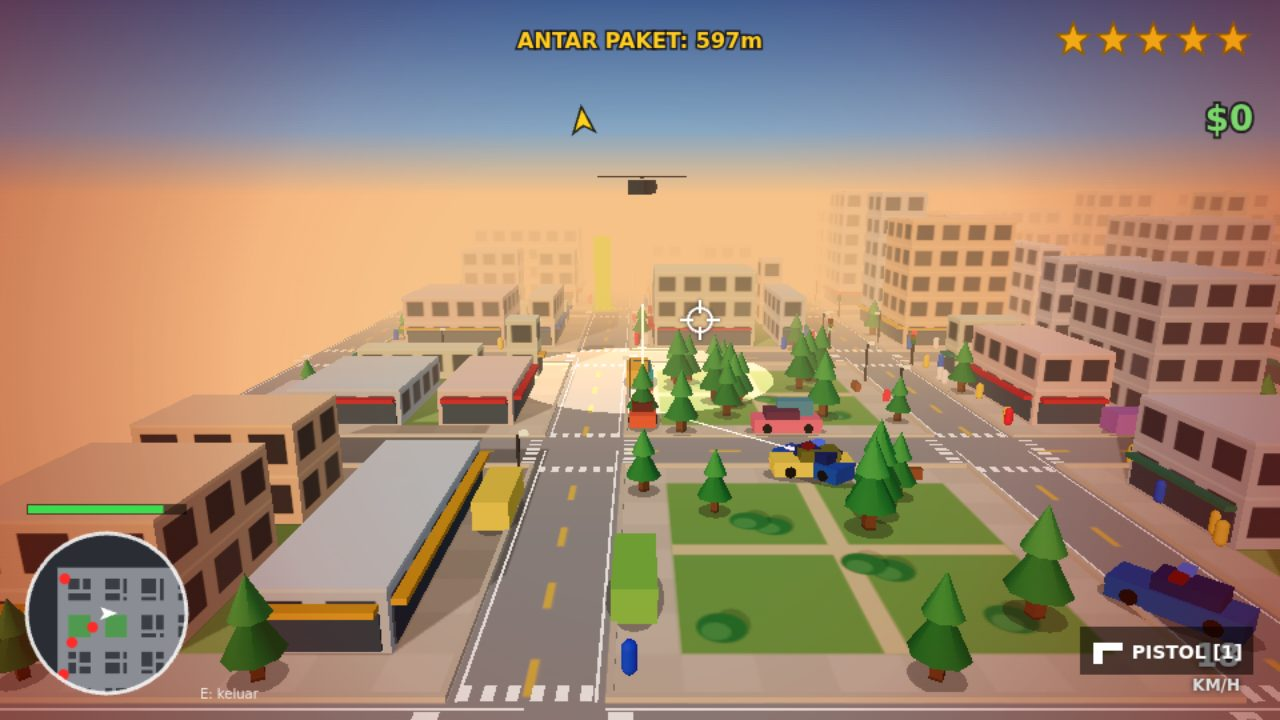
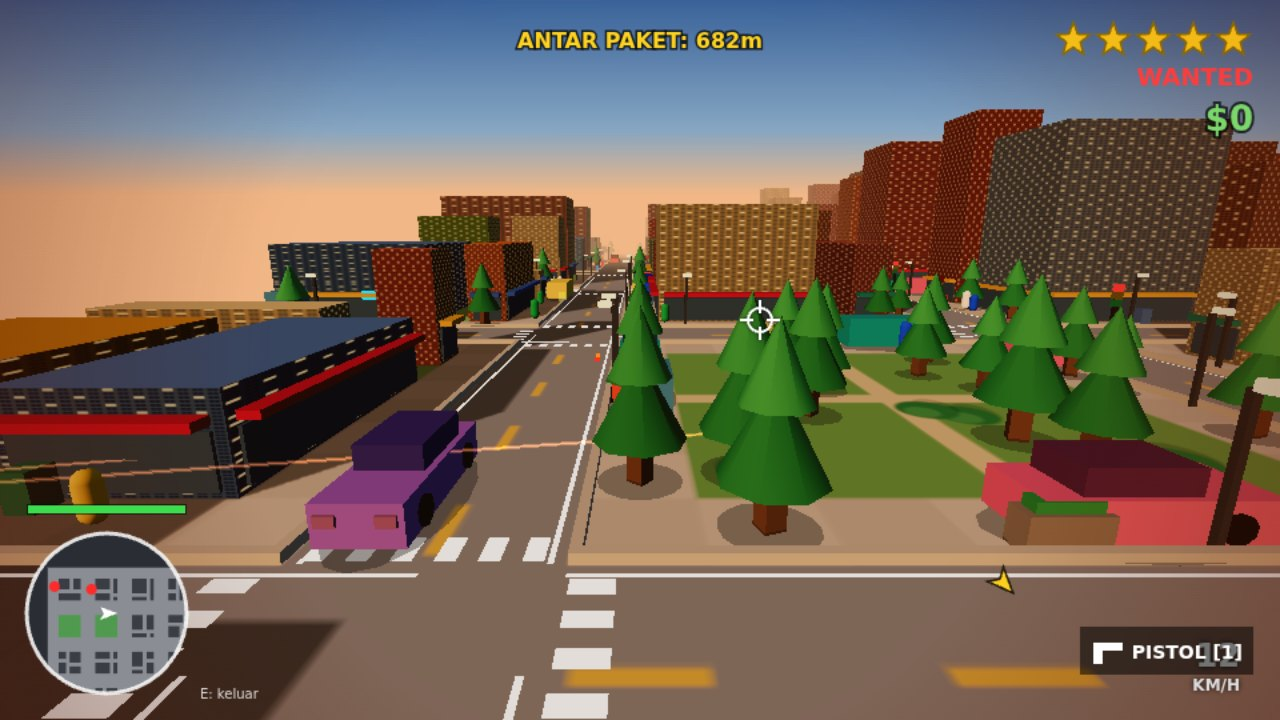
feat(V2): palet vivid, fasad tekstur 3 bucket, prop jalan padat, kamera dekat, grade 1.30; screenshot terpilih (sheet edge 35.5 / kontras 59.4)

diff --git a/game/src/render3d.js b/game/src/render3d.js
@@ -35,44 +35,45 @@ function makeSkyTexture() {
   return texture;
 }
 
-function makeWindowGlowTexture() {
-  const canvas = document.createElement('canvas');
-  canvas.width = canvas.height = 256;
-  const ctx = canvas.getContext('2d');
-  ctx.fillStyle = '#000';
-  ctx.fillRect(0, 0, 256, 256);
-  ctx.fillStyle = '#ffcf7a';
-  for (let row = 0; row < 4; row++) {
-    for (let col = 0; col < 8; col++) {
-      if ((row * 7 + col * 13) % 11 < 2) ctx.fillRect(col * 32 + 5, row * 64 + 12, 22, 38);
-    }
-  }
-  const texture = new THREE.CanvasTexture(canvas);
-  texture.colorSpace = THREE.SRGBColorSpace;
-  texture.wrapS = texture.wrapT = THREE.RepeatWrapping;
-  texture.anisotropy = 4;
-  return texture;
-}
+const FACADE_SIZE = 512, FACADE_COLS = 8, FACADE_ROWS = 10;
+const FACADE_REPEATS = [[2, 3], [3, 6], [4, 9]];
 
-function makeFacadeTexture() {
-  const canvas = document.createElement('canvas');
-  canvas.width = canvas.height = 256;
-  const ctx = canvas.getContext('2d');
-  ctx.fillStyle = '#e8e8ee';
-  ctx.fillRect(0, 0, 256, 256);
-  for (let row = 0; row < 4; row++) {
-    for (let col = 0; col < 8; col++) {
-      ctx.fillStyle = (row * 3 + col * 5) % 7 === 0 ? '#4a5a70' : '#2c3a4e';
-      ctx.fillRect(col * 32 + 5, row * 64 + 12, 22, 38);
+function makeFacadeTextures() {
+  const cw = FACADE_SIZE / FACADE_COLS, rh = FACADE_SIZE / FACADE_ROWS;
+  const mk = () => {
+    const canvas = document.createElement('canvas');
+    canvas.width = canvas.height = FACADE_SIZE;
+    return [canvas, canvas.getContext('2d')];
+  };
+  const [fc, f] = mk();
+  const [gc, g] = mk();
+  f.fillStyle = '#c9c2b2';
+  f.fillRect(0, 0, FACADE_SIZE, FACADE_SIZE);
+  g.fillStyle = '#000';
+  g.fillRect(0, 0, FACADE_SIZE, FACADE_SIZE);
+  for (let row = 0; row < FACADE_ROWS; row++) {
+    for (let col = 0; col < FACADE_COLS; col++) {
+      const x = col * cw + 10, y = row * rh + 9, w = cw - 20, h = rh - 18;
+      const lit = (row * 7 + col * 13 + row * col * 3) % 4 === 0;
+      f.fillStyle = lit ? '#ffe0a0' : '#3f5670';
+      f.fillRect(x, y, w, h);
+      if (lit) { g.fillStyle = '#ffe0a0'; g.fillRect(x, y, w, h); }
+      f.fillStyle = '#e8eef5';
+      f.fillRect(x + w / 2 - 1, y, 2, h);
+      f.fillRect(x, y + h / 2 - 1, w, 2);
+      f.fillRect(x - 2, y - 2, w + 4, 2);
     }
-    ctx.fillStyle = '#ffffff';
-    ctx.fillRect(0, row * 64, 256, 4);
+    f.fillStyle = '#e8eef5';
+    f.fillRect(0, Math.round(row * rh), FACADE_SIZE, 3);
   }
-  const texture = new THREE.CanvasTexture(canvas);
-  texture.colorSpace = THREE.SRGBColorSpace;
-  texture.wrapS = texture.wrapT = THREE.RepeatWrapping;
-  texture.anisotropy = 4;
-  return texture;
+  const wrap = (c) => {
+    const t = new THREE.CanvasTexture(c);
+    t.colorSpace = THREE.SRGBColorSpace;
+    t.wrapS = t.wrapT = THREE.RepeatWrapping;
+    t.anisotropy = 4;
+    return t;
+  };
+  return { facade: wrap(fc), glow: wrap(gc) };
 }
 
 export function initRenderer(canvas, hudCanvas, world) {
@@ -295,18 +296,6 @@ function makeBuildingMaterial(gfx, facade, glow, ghost) {
   const material = gfx.software
     ? new THREE.MeshLambertMaterial(opts)
     : new THREE.MeshStandardMaterial({ ...opts, roughness: 0.85, metalness: 0.0 });
-  material.onBeforeCompile = (shader) => {
-    shader.vertexShader = shader.vertexShader.replace('#include <uv_vertex>', `#include <uv_vertex>
-#ifdef USE_MAP
-  vec3 bsz = vec3(length(instanceMatrix[0].xyz), length(instanceMatrix[1].xyz), length(instanceMatrix[2].xyz));
-  float horiz = abs(normal.x) > 0.5 ? bsz.z : bsz.x;
-  vec2 bUv = vec2(uv.x * horiz / 256.0, uv.y * bsz.y / 128.0);
-  vMapUv = (mapTransform * vec3(bUv, 1.0)).xy;
-  #ifdef USE_EMISSIVEMAP
-  vEmissiveMapUv = (emissiveMapTransform * vec3(bUv, 1.0)).xy;
-  #endif
-#endif`);
-  };
   return material;
 }
 
@@ -315,19 +304,25 @@ export function syncGhosts(gfx, ids) {
   if (!g || !ids) return;
   const prev = g.ids;
   if (prev.length === ids.length && prev.every((v, i) => v === ids[i])) return;
-  const arr = gfx.buildings.instanceMatrix.array;
-  for (const i of prev) for (let j = 0; j < 16; j++) arr[i * 16 + j] = g.orig[i * 16 + j];
+  const touched = new Set();
+  for (const i of prev) {
+    const { mesh, local } = g.slot[i];
+    mesh.instanceMatrix.array.set(g.orig.subarray(i * 16, i * 16 + 16), local * 16);
+    touched.add(mesh);
+  }
   ids.forEach((id, n) => {
-    gfx.buildings.getMatrixAt(id, g.m);
+    const { mesh, local } = g.slot[id];
+    g.m.fromArray(g.orig, id * 16);
     g.mesh.setMatrixAt(n, g.m);
     g.mesh.setColorAt(n, g.c.set(g.colors[id]));
-    for (let j = 0; j < 16; j++) arr[id * 16 + j] = 0;
+    mesh.instanceMatrix.array.fill(0, local * 16, local * 16 + 16);
+    touched.add(mesh);
   });
   g.ids = ids.slice();
   g.mesh.count = ids.length;
   g.mesh.instanceMatrix.needsUpdate = true;
   if (g.mesh.instanceColor) g.mesh.instanceColor.needsUpdate = true;
-  gfx.buildings.instanceMatrix.needsUpdate = true;
+  for (const m of touched) m.instanceMatrix.needsUpdate = true;
 }
 
 export function buildWorldMeshes(gfx, world) {
@@ -339,35 +334,50 @@ export function buildWorldMeshes(gfx, world) {
   ground.receiveShadow = true;
   gfx.scene.add(ground);
 
-  const facade = makeFacadeTexture();
-  const buildings = new THREE.InstancedMesh(
-    new THREE.BoxGeometry(1, 1, 1),
-    makeBuildingMaterial(gfx, facade, makeWindowGlowTexture(), false),
-    world.buildings.length,
-  );
+  const { facade, glow } = makeFacadeTextures();
   const matrix = new THREE.Matrix4(), color = new THREE.Color();
-  world.buildings.forEach((b, i) => {
-    matrix.compose(
-      new THREE.Vector3(b.x + b.w / 2 - WORLD_W / 2, b.height / 2, b.y + b.h / 2 - WORLD_H / 2),
-      new THREE.Quaternion(),
-      new THREE.Vector3(b.w, b.height, b.h),
-    );
-    buildings.setMatrixAt(i, matrix);
-    buildings.setColorAt(i, color.set(b.color));
+  const bucketOf = (h) => (h < 64 ? 0 : h <= 128 ? 1 : 2);
+  const members = [[], [], []];
+  world.buildings.forEach((b, i) => members[bucketOf(b.height)].push(i));
+  const orig = new Float32Array(world.buildings.length * 16);
+  const slot = new Array(world.buildings.length);
+  gfx.buildingMeshes = members.map((ids, k) => {
+    const [rx, ry] = FACADE_REPEATS[k];
+    const map = facade.clone(), emissiveMap = glow.clone();
+    for (const t of [map, emissiveMap]) { t.repeat.set(rx, ry); t.needsUpdate = true; }
+    const material = makeBuildingMaterial(gfx, map, emissiveMap, false).clone();
+    material.color.set(0xffffff);
+    const mesh = new THREE.InstancedMesh(new THREE.BoxGeometry(1, 1, 1), material, Math.max(1, ids.length));
+    mesh.count = ids.length;
+    ids.forEach((id, local) => {
+      const b = world.buildings[id];
+      matrix.compose(
+        new THREE.Vector3(b.x + b.w / 2 - WORLD_W / 2, b.height / 2, b.y + b.h / 2 - WORLD_H / 2),
+        new THREE.Quaternion(),
+        new THREE.Vector3(b.w, b.height, b.h),
+      );
+      mesh.setMatrixAt(local, matrix);
+      matrix.toArray(orig, id * 16);
+      mesh.setColorAt(local, color.set(b.color));
+      slot[id] = { mesh, local };
+    });
+    mesh.instanceMatrix.needsUpdate = true;
+    if (mesh.instanceColor) mesh.instanceColor.needsUpdate = true;
+    mesh.castShadow = mesh.receiveShadow = true;
+    gfx.scene.add(mesh);
+    return mesh;
   });
-  buildings.instanceMatrix.needsUpdate = true;
-  buildings.instanceColor.needsUpdate = true;
-  buildings.castShadow = buildings.receiveShadow = true;
-  gfx.scene.add(buildings);
-  gfx.buildings = buildings;
 
-  const ghostMesh = new THREE.InstancedMesh(new THREE.BoxGeometry(1, 1, 1), makeBuildingMaterial(gfx, facade, buildings.material.emissiveMap, true), GHOST_MAX);
+  const ghostMat = makeBuildingMaterial(gfx, facade.clone(), glow, true);
+  ghostMat.map.repeat.set(...FACADE_REPEATS[1]);
+  ghostMat.map.needsUpdate = true;
+  const ghostMesh = new THREE.InstancedMesh(new THREE.BoxGeometry(1, 1, 1), ghostMat, GHOST_MAX);
   ghostMesh.count = 0;
   ghostMesh.frustumCulled = false;
   ghostMesh.renderOrder = 2;
   ghostMesh.setColorAt(0, color.set(0xffffff));
   gfx.scene.add(ghostMesh);
-  gfx.ghost = { mesh: ghostMesh, ids: [], orig: buildings.instanceMatrix.array.slice(), colors: world.buildings.map((b) => b.color), m: new THREE.Matrix4(), c: new THREE.Color() };
+  gfx.ghost = { mesh: ghostMesh, ids: [], orig, slot, colors: world.buildings.map((b) => b.color), m: new THREE.Matrix4(), c: new THREE.Color() };
 
   const roofs = new THREE.InstancedMesh(
     new THREE.PlaneGeometry(1, 1),
@@ -586,7 +596,7 @@ function buildProps(gfx, world) {
   };
 
   const trees = [];
-  for (let i = 0; i < 140; i++) {
+  for (let i = 0; i < 280; i++) {
     const s = strips.pop();
     const p = spot(s, 0, (rand() - 0.5) * 12);
     trees.push({ x: p.x, y: p.y, scale: 0.8 + rand() * 0.45, tint: 0.85 + rand() * 0.3 });
@@ -615,24 +625,54 @@ function buildProps(gfx, world) {
   gfx.scene.add(treeMesh);
 
   const boxes = [], cyls = [];
-  for (let i = 0; i < 120; i++) {
+  for (let i = 0; i < 220; i++) {
     const s = strips.pop(), p = spot(s, 12, (rand() - 0.5) * 10);
     boxes.push({ x: p.x, y: POLE_HEIGHT / 2, z: p.y, sx: 2, sy: POLE_HEIGHT, sz: 2, yaw: 0, color: '#3b3f45' });
     cyls.push({ x: p.x + (s.horiz ? 0 : s.road * 4), y: POLE_HEIGHT + 1, z: p.y + (s.horiz ? s.road * 4 : 0), sx: 3.5, sy: 2.5, sz: 3.5, color: '#fff2b0' });
   }
-  for (let i = 0; i < 40; i++) {
+  const BENCH_COLORS = ['#8a5a33', '#5b7f3a', '#3f5f8f', '#a8483a'];
+  for (let i = 0; i < 80; i++) {
     const s = strips.pop(), p = spot(s, -8, (rand() - 0.5) * 8);
-    boxes.push({ x: p.x, y: 4, z: p.y, sx: 16, sy: 8, sz: 5, yaw: p.angle, color: '#8a5a33' });
+    boxes.push({ x: p.x, y: 4, z: p.y, sx: 16, sy: 8, sz: 5, yaw: p.angle, color: BENCH_COLORS[i % 4] });
   }
-  for (let i = 0; i < 30; i++) {
+  const HYDRANT_COLORS = ['#e0262b', '#f3c613', '#2b7de0'];
+  for (let i = 0; i < 70; i++) {
     const s = strips.pop(), p = spot(s, 11, (rand() - 0.5) * 10);
-    cyls.push({ x: p.x, y: 5, z: p.y, sx: 3.5, sy: 10, sz: 3.5, color: '#e0262b' });
+    cyls.push({ x: p.x, y: 5, z: p.y, sx: 3.5, sy: 10, sz: 3.5, color: HYDRANT_COLORS[i % 3] });
   }
-  for (let i = 0; i < 12; i++) {
+  const BIN_COLORS = ['#2f6f4f', '#3a3f48', '#4a6fa5', '#8a8f96'];
+  for (let i = 0; i < 60; i++) {
+    const s = strips.pop(), p = spot(s, -10, (rand() - 0.5) * 12);
+    boxes.push({ x: p.x, y: 6, z: p.y, sx: 8, sy: 12, sz: 8, yaw: 0, color: BIN_COLORS[i % 4] });
+  }
+  const PLANTER_COLORS = ['#b5651d', '#8c8173', '#6f7f8f', '#c98b4a'];
+  for (let i = 0; i < 40; i++) {
+    const s = strips.pop(), p = spot(s, 9, (rand() - 0.5) * 12);
+    boxes.push({ x: p.x, y: 5, z: p.y, sx: s.horiz ? 20 : 8, sy: 10, sz: s.horiz ? 8 : 20, yaw: 0, color: PLANTER_COLORS[i % 4] });
+    boxes.push({ x: p.x, y: 11, z: p.y, sx: s.horiz ? 16 : 5, sy: 4, sz: s.horiz ? 5 : 16, yaw: 0, color: '#3f9a4a' });
+  }
+  for (let i = 0; i < 50; i++) {
+    const s = strips.pop(), p = spot(s, 13, (rand() - 0.5) * 8);
+    boxes.push({ x: p.x, y: 25, z: p.y, sx: 2.5, sy: 50, sz: 2.5, yaw: 0, color: '#5a4630' });
+    boxes.push({ x: p.x, y: 46, z: p.y, sx: s.horiz ? 20 : 2, sy: 2, sz: s.horiz ? 2 : 20, yaw: 0, color: '#5a4630' });
+  }
+  const NEON_COLORS = ['#ff2d95', '#18e0ff', '#ffe03a'];
+  const signs = [];
+  for (let i = 0; i < 30; i++) {
+    const s = strips.pop(), p = spot(s, -13, (rand() - 0.5) * 8);
+    signs.push({ x: p.x, y: 22 + rand() * 8, z: p.y, yaw: p.angle, color: NEON_COLORS[i % 3] });
+  }
+  const signMesh = new THREE.InstancedMesh(new THREE.PlaneGeometry(18, 8), new THREE.MeshBasicMaterial({ side: THREE.DoubleSide, toneMapped: false }), signs.length);
+  signs.forEach((n, i) => place(signMesh, i, n.x, n.y, n.z, 1, 1, 1, n.yaw, n.color));
+  signMesh.frustumCulled = false;
+  signMesh.instanceMatrix.needsUpdate = true;
+  signMesh.instanceColor.needsUpdate = true;
+  gfx.scene.add(signMesh);
+  for (let i = 0; i < 24; i++) {
     const s = strips.pop(), p = spot(s, -6, 0);
     boxes.push({ x: p.x, y: 13, z: p.y, sx: s.horiz ? 30 : 10, sy: 26, sz: s.horiz ? 10 : 30, yaw: 0, color: '#4b8fb5' });
   }
-  for (let i = 0; i < 40; i++) {
+  for (let i = 0; i < 80; i++) {
     const s = strips.pop(), p = spot(s, 5, 0);
     boxes.push({ x: p.x, y: CAR_SIZE.height / 2 + 2, z: p.y, sx: CAR_SIZE.length, sy: CAR_SIZE.height, sz: CAR_SIZE.width, yaw: p.angle, color: PROP_CAR_COLORS[Math.floor(rand() * PROP_CAR_COLORS.length)] });
     blobs.push({ x: p.x, y: p.y, sx: 32, sy: 15, angle: p.angle });

diff --git a/game/src/vehicle.js b/game/src/vehicle.js
@@ -2,7 +2,7 @@
 import { TILE, T, tileAt } from './world.js';
 
 const ACCEL = 260, BRAKE = 420, DRAG = 0.9, TURN = 2.4, MAX = 320, REVERSE_MAX = -90;
-const CRUISE = 130, NPC_COUNT = 14, LOOKAHEAD = 40, FOLLOW_DISTANCE = 50, FOLLOW_ANGLE = 0.6;
+const CRUISE = 130, NPC_COUNT = 28, LOOKAHEAD = 40, FOLLOW_DISTANCE = 50, FOLLOW_ANGLE = 0.6;
 const ENTER_RANGE = 60, SPAWN_CAR_RADIUS = 40, HALF_LENGTH = 18, HALF_WIDTH = 9;
 const ROAD_PERIOD = 10 * TILE, ROAD_WIDTH = 2 * TILE, PHASE_SECONDS = 6, STOP_MARGIN = 6;
 const COLORS = ['#e4572e', '#f3a712', '#29a3a3', '#4f86f7', '#e86a92', '#7bc950', '#f5d547', '#a06cd5'];

diff --git a/game/src/camera.js b/game/src/camera.js
@@ -21,8 +21,8 @@ export function updateCamera(cam, target, world, dt, driving = false) {
   cam.y = Math.max(0, Math.min(world.height - cam.visH, cam.y));
 }
 
-const WALK = { up: 78, back: 230, fov: 60, lookY: 26 };
-const DRIVE = { up: 96, back: 290, fov: 64, lookY: 22 };
+const WALK = { up: 58, back: 178, fov: 62, lookY: 22 };
+const DRIVE = { up: 72, back: 226, fov: 66, lookY: 18 };
 const FOV_KICK = 6, KICK_SPEED = 0.8 * 320, PULL_DIST = 120, GHOST_MAX = 8, CAM_NEAR = 2, CAM_FAR = 2400;
 const MIN_DIST = 14, RAY_STEP = 8, RAY_SIDE = 10, RAY_MARGIN = 4;
 

diff --git a/game/src/world.js b/game/src/world.js
@@ -16,7 +16,7 @@ function mulberry32(seed) {
   };
 }
 
-const COLORS = ['#f0dcbc', '#e6c9c2', '#c4d4e6', '#d2e0bf', '#f5c99a', '#bfd2de', '#e8e8f0', '#f0bdb8'];
+const COLORS = ['#b5651d', '#8c5a3c', '#4a6fa5', '#6b8e23', '#a0522d', '#c2b280', '#7a8fa6', '#b8860b', '#8f4b3a', '#5f7a52', '#9a6b4f', '#c47a5a'];
 const BLOCKS = COLS / PERIOD;
 
 function splitRect(r, axis, rand) {
